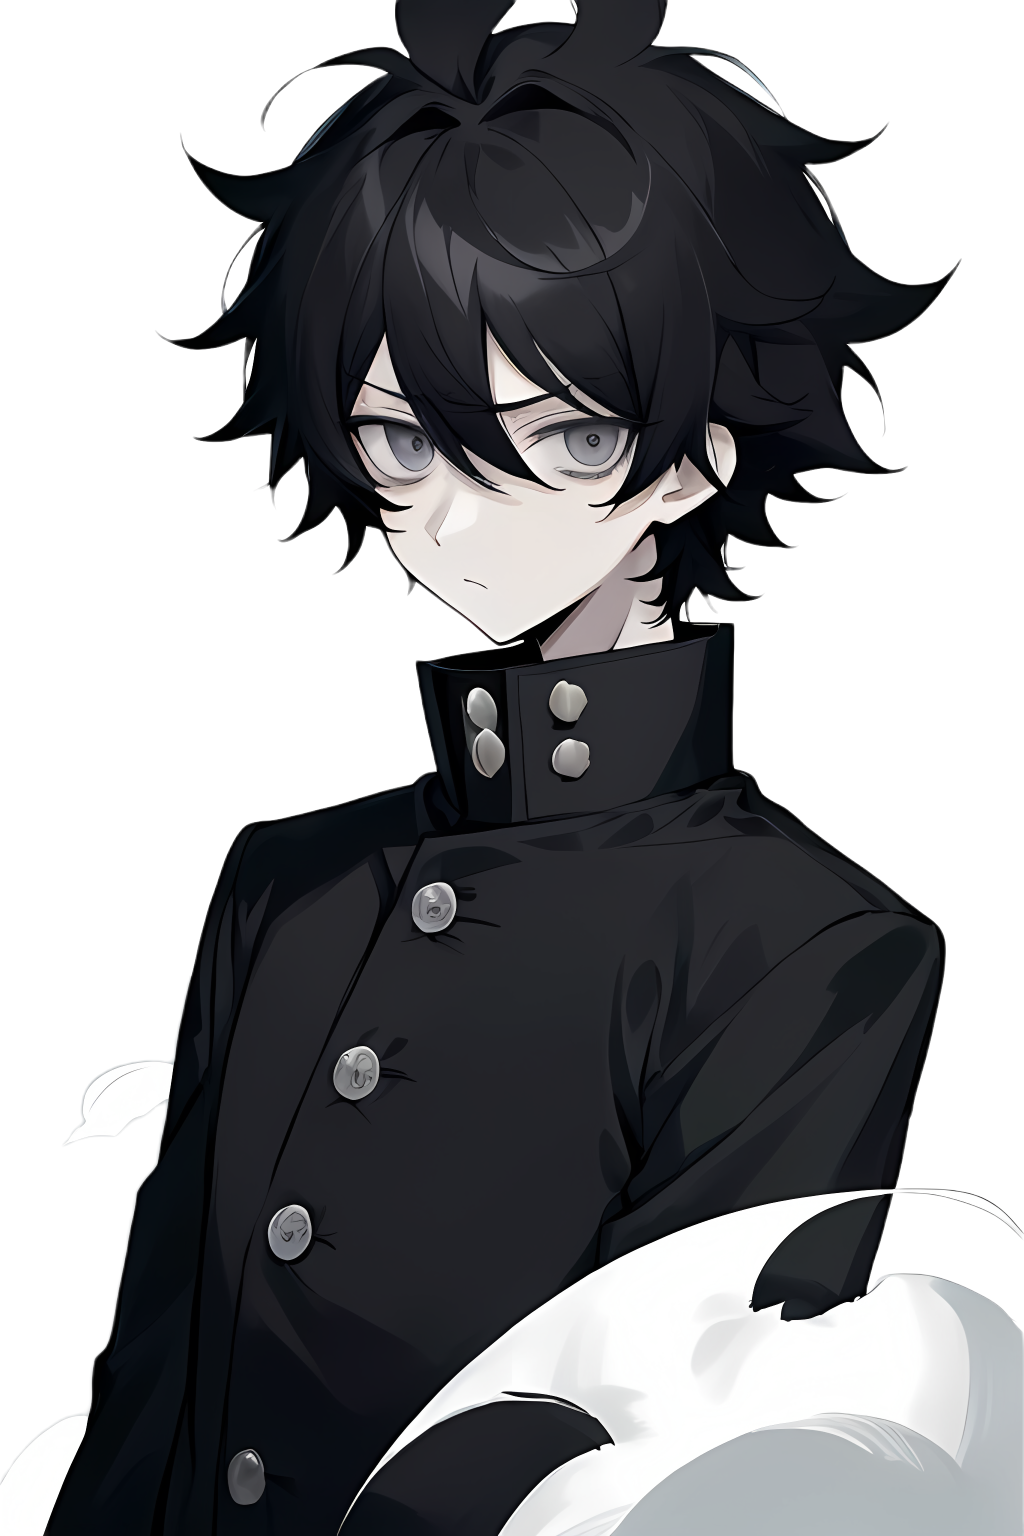
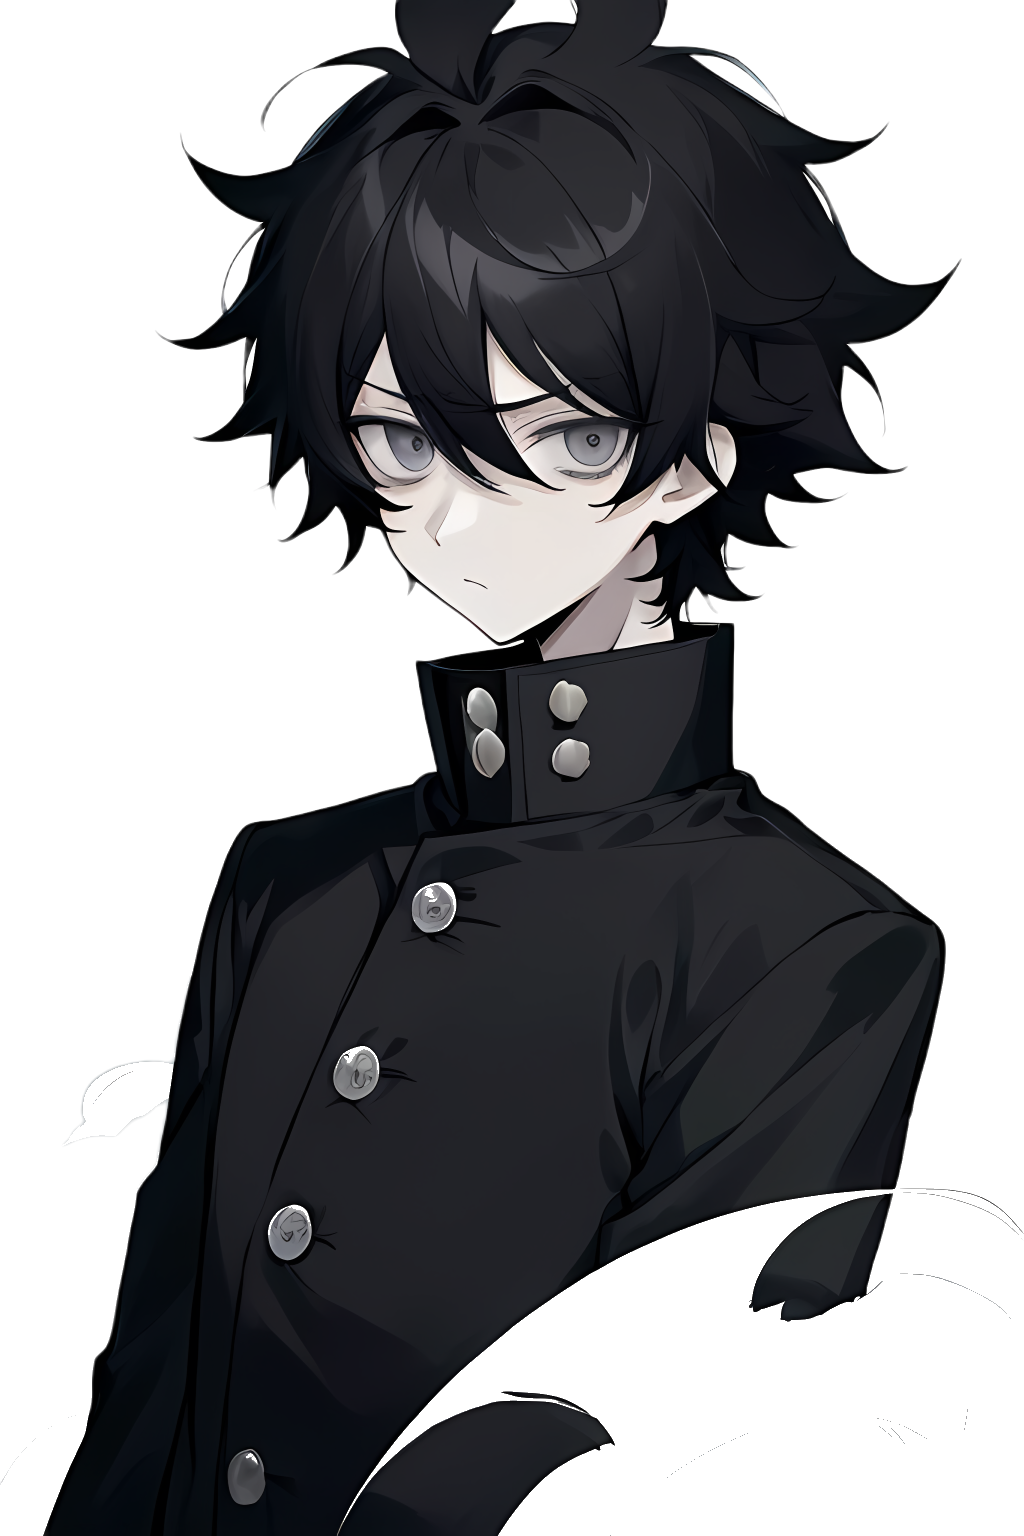
Anime cast: Haruto and Yui chosen; stronger black-gakuran prompt; blink/mouth edits at higher strength, 384 px
Claude-Session: https://claude.ai/code/session_0153qDV4AufFgT2PhEBEfS8n

diff --git a/channels/stories/dma_cast.py b/channels/stories/dma_cast.py
@@ -5,18 +5,22 @@ SET = "dma"
 CHAR_PROMPT = ("masterpiece, best quality, anime screencap, {tags}, solo, upper body, facing viewer, looking at viewer, "
                "straight-on, centered, standing, plain white background, simple background")
 CHAR_NEG = ("dutch angle, tilted, abstract background, liquid, splashes, paint, gold, particles, smoke, clouds, "
-            "gradient background")
+            "gradient background, white jacket, white coat, grey jacket, lab coat, blazer, holding")
 FACE_PROMPT = "masterpiece, best quality, anime screencap, close-up, face, {tags}"
 BG_PROMPT = "masterpiece, best quality, anime background, scenery, no humans, {tags}, detailed"
 
-GAKURAN = "black gakuran, school uniform, high collar, buttons"
+GAKURAN = "black gakuran, black jacket, black school uniform, high collar, buttons"
 SAILOR = "sailor uniform, navy serafuku, red neckerchief"
 CHARS = {
     "ren": dict(tags=f"1boy, black hair, messy hair, hair between eyes, grey eyes, tired eyes, expressionless, {GAKURAN}",
                 seed=22, face=(190, 130, 360, 330), eyes=(200, 192, 350, 250), mouth=(250, 270, 314, 310),
                 clean_light_below=420),
-    "haruto": dict(tags=f"1boy, brown hair, spiky hair, brown eyes, smile, {GAKURAN}, open collar, white shirt"),
-    "yui": dict(tags=f"1girl, long hair, dark brown hair, hairclip, brown eyes, gentle smile, {SAILOR}"),
+    "haruto": dict(tags=f"1boy, brown hair, spiky hair, brown eyes, smile, {GAKURAN}, open collar, white shirt",
+                   seed=22, face=(130, 142, 330, 342), eyes=(140, 212, 315, 268), mouth=(200, 280, 262, 312),
+                   extra=("grin",)),
+    "yui": dict(tags=f"1girl, long hair, dark brown hair, hairclip, brown eyes, gentle smile, {SAILOR}",
+                seed=22, face=(160, 95, 360, 295), eyes=(180, 158, 345, 212), mouth=(238, 240, 296, 274),
+                extra=("smile",)),
     "riku": dict(tags=f"1boy, ash blonde hair, swept bangs, narrowed eyes, smirk, {GAKURAN}, open collar"),
     "kota": dict(tags=f"1boy, black hair, bowl cut, round glasses, nervous, {GAKURAN}"),
     "go": dict(tags=f"1boy, very short hair, buzz cut, black hair, thick eyebrows, muscular, broad shoulders, serious, "
@@ -36,12 +40,12 @@ BGS = {
 
 def PARTS(c):
     """name: (prompt, img2img strength, region) for each face patch; "x+y" edits the x face."""
-    p = {"blink": ("closed eyes", 0.55, "eyes"), "half": ("parted lips, talking", 0.5, "mouth"),
-         "open": ("open mouth, talking", 0.55, "mouth"), "fear": ("scared, wide eyes, frown, sweat", 0.5, "face"),
-         "fear+blink": ("closed eyes, scared", 0.55, "eyes"), "fear+open": ("open mouth, scared", 0.55, "mouth")}
+    p = {"blink": ("closed eyes", 0.8, "eyes"), "half": ("parted lips, talking", 0.7, "mouth"),
+         "open": ("open mouth, talking", 0.78, "mouth"), "fear": ("scared, wide eyes, frown, sweat", 0.5, "face"),
+         "fear+blink": ("closed eyes, scared", 0.8, "eyes"), "fear+open": ("open mouth, scared", 0.78, "mouth")}
     for e in c.get("extra", ()):
         p[e] = {"smile": ("smile, happy", 0.5, "face"), "grin": ("grin, teeth", 0.5, "face"),
                 "smirk": ("smirk, smug", 0.5, "face"), "angry": ("angry, frown, clenched teeth", 0.5, "face")}[e]
-        p[e + "+open"] = ("open mouth, talking", 0.55, "mouth")
-        p[e + "+blink"] = ("closed eyes", 0.55, "eyes")
+        p[e + "+open"] = ("open mouth, talking", 0.78, "mouth")
+        p[e + "+blink"] = ("closed eyes", 0.8, "eyes")
     return p

diff --git a/tools/anime_assets.py b/tools/anime_assets.py
@@ -241,8 +241,9 @@ def parts(mod, name, which=None):
     side = max(fx1 - fx0, fy1 - fy0)
     cx, cy = (fx0 + fx1) / 2, (fy0 + fy1) / 2
     box = [int(cx - side / 2), int(cy - side / 2), int(cx + side / 2), int(cy + side / 2)]
-    crop = src.crop(box).resize((512, 512), Image.LANCZOS)
-    k = 512 / side
+    S = int(os.environ.get("PART_SIZE", "384"))                     # edit size (the face is ~200 px in the source)
+    crop = src.crop(box).resize((S, S), Image.LANCZOS)
+    k = S / side
     meta_path = os.path.join(d, "parts.json")
     meta = json.load(open(meta_path)) if os.path.exists(meta_path) else {}
     jobs = s.PARTS(c)
@@ -258,9 +259,9 @@ def parts(mod, name, which=None):
         if region == "face":                                          # expression faces are edited further
             out.save(os.path.join(d, f"_face_{pname}.png"))
         rx0, ry0, rx1, ry1 = [(v - box[i % 2]) * k for i, v in enumerate(c[region])] if region != "face" else \
-            (40, 40, 472, 472)
-        m = soft_ellipse(512, 512, (rx0, ry0, rx1, ry1), 10 if region != "face" else 24)
-        size = int(round(side * 2))                                   # the crop is shown at 2x: 512 -> 2*side
+            (S * 0.08, S * 0.08, S * 0.92, S * 0.92)
+        m = soft_ellipse(S, S, (rx0, ry0, rx1, ry1), S * 0.02 if region != "face" else S * 0.045)
+        size = int(round(side * 2))                                   # the crop is shown at 2x: S -> 2*side
         up = out.resize((size, size), Image.LANCZOS)
         mk = cv2.resize(m, (size, size))
         ys, xs = np.nonzero(mk > 0.01)

diff --git a/channels/stories/boy_cast.py b/channels/stories/boy_cast.py
@@ -31,12 +31,12 @@ BGS = {
 
 def PARTS(c):
     """name: (prompt, img2img strength, region) for each face patch; "x+y" edits the x face."""
-    p = {"blink": ("closed eyes", 0.55, "eyes"), "half": ("parted lips, talking", 0.5, "mouth"),
-         "open": ("open mouth, talking", 0.55, "mouth"), "fear": ("scared, wide eyes, frown, sweat", 0.5, "face"),
-         "fear+blink": ("closed eyes, scared", 0.55, "eyes"), "fear+open": ("open mouth, scared", 0.55, "mouth")}
+    p = {"blink": ("closed eyes", 0.8, "eyes"), "half": ("parted lips, talking", 0.7, "mouth"),
+         "open": ("open mouth, talking", 0.78, "mouth"), "fear": ("scared, wide eyes, frown, sweat", 0.5, "face"),
+         "fear+blink": ("closed eyes, scared", 0.8, "eyes"), "fear+open": ("open mouth, scared", 0.78, "mouth")}
     for e in c.get("extra", ()):
         p[e] = {"smile": ("smile, happy", 0.5, "face"), "laugh": ("laughing, closed eyes, smile", 0.5, "face"),
                 "grief": ("sad, tears, frown", 0.5, "face")}[e]
-        p[e + "+open"] = ("open mouth, talking", 0.55, "mouth")
-        p[e + "+blink"] = ("closed eyes", 0.55, "eyes")
+        p[e + "+open"] = ("open mouth, talking", 0.78, "mouth")
+        p[e + "+blink"] = ("closed eyes", 0.8, "eyes")
     return p

diff --git a/channels/stories/dma_anime.py b/channels/stories/dma_anime.py
@@ -14,7 +14,8 @@ from channels.stories.dma_art import V, glow, noise, hexa, toon, tk, camera_unit
 ROOT = AN.ROOT
 BG = "assets/anime/dma/bg/{}.png"
 # neck base (x, y) and head height, in base.png pixels (1024x1536), measured on the chosen paintings
-RIG = {"ren": dict(neck=(580, 662), head=560)}
+RIG = {"ren": dict(neck=(580, 662), head=560), "haruto": dict(neck=(480, 680), head=445),
+       "yui": dict(neck=(530, 640), head=570)}
 EXPR = {"calm": "neutral", "focus": "neutral", "neutral": "neutral", "shock": "fear", "fear": "fear", "worry": "fear",
         "sad": "fear", "smile": "smile", "grin": "grin", "smirk": "smirk", "angry": "angry"}
 FALLBACK = {"smile": ("grin", "smirk"), "grin": ("smile", "smirk"), "smirk": ("grin", "smile"), "angry": ("fear",)}
